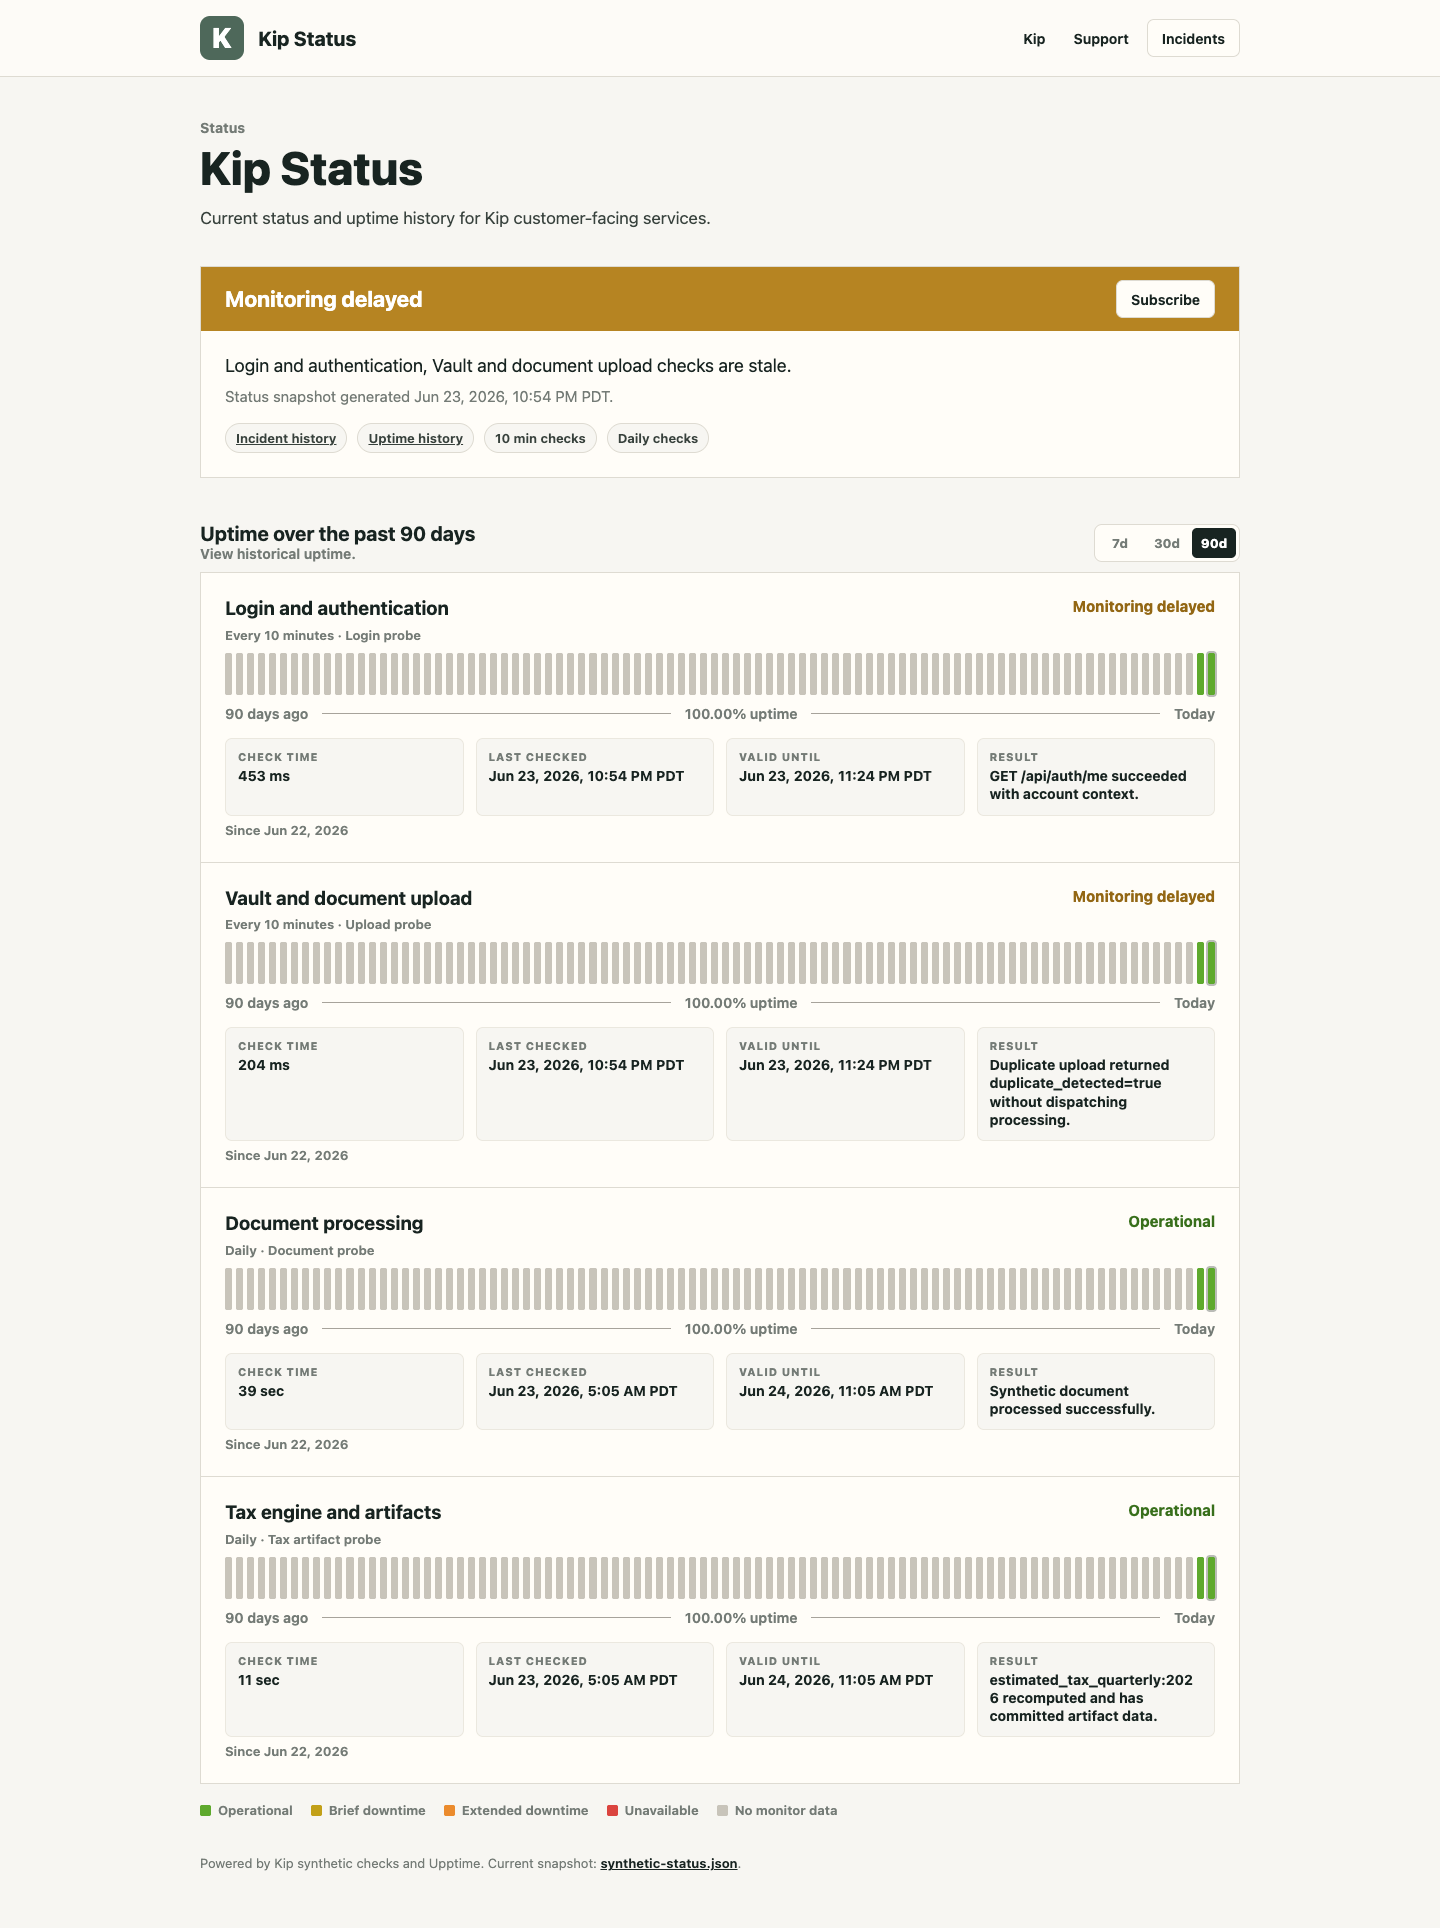
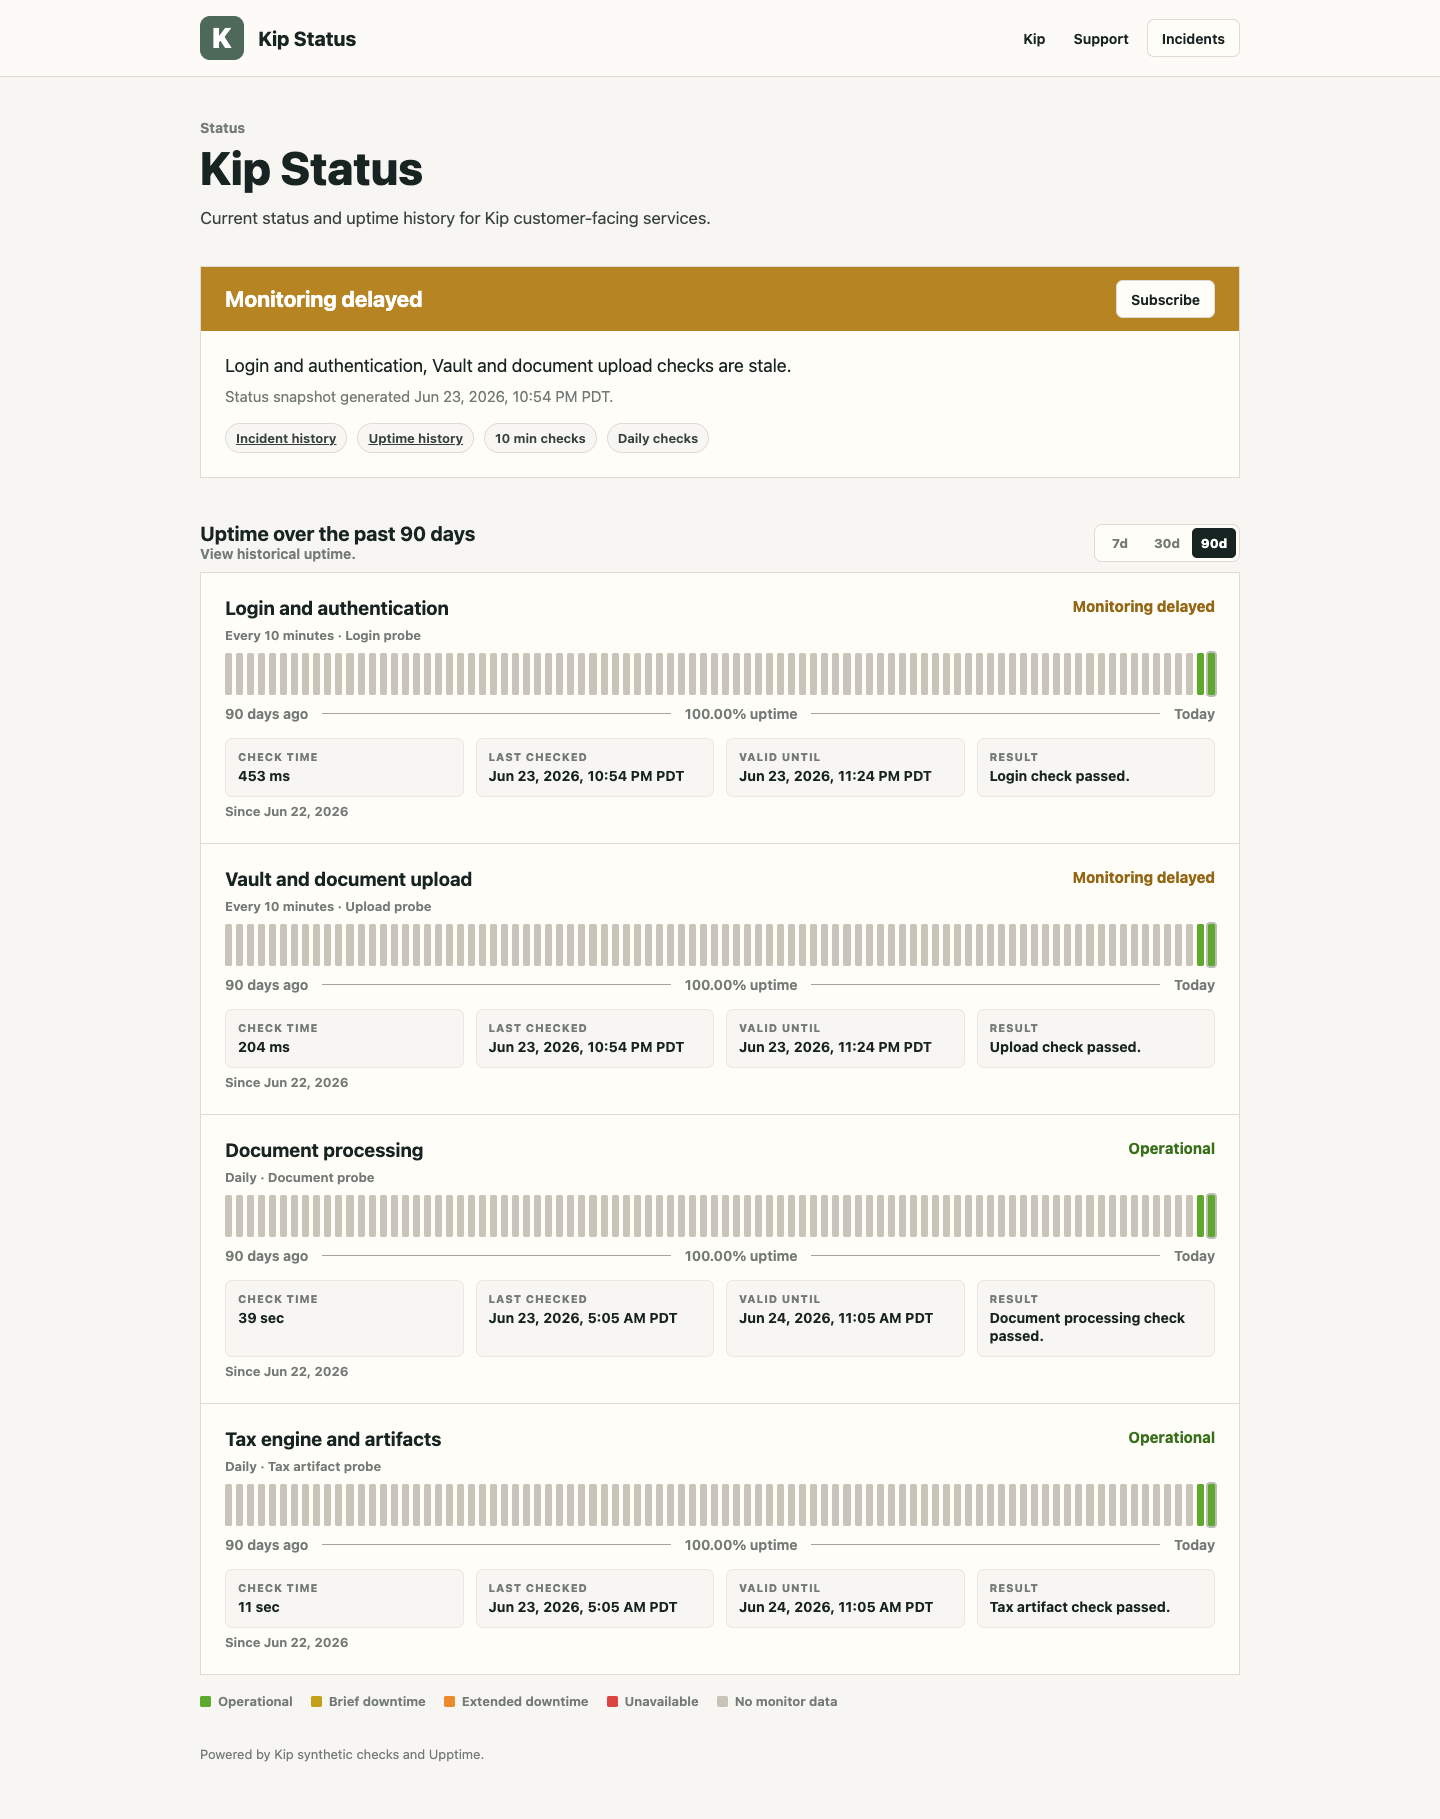
Address status page review comments

diff --git a/tests/kip-status.test.js b/tests/kip-status.test.js
@@ -1,0 +1,77 @@
+const assert = require("node:assert/strict");
+const fs = require("node:fs");
+const path = require("node:path");
+const vm = require("node:vm");
+
+const source = fs.readFileSync(path.join(__dirname, "../assets/kip-status.js"), "utf8");
+const sandbox = {
+  console,
+  document: { getElementById: () => null },
+  Intl,
+  window: {
+    __KIP_STATUS_TEST__: true,
+    location: { hostname: "localhost" },
+  },
+};
+
+vm.createContext(sandbox);
+vm.runInContext(source, sandbox);
+
+const {
+  barState,
+  buildBars,
+  resultForRow,
+  stateForComponent,
+} = sandbox.window.__kipStatusTestUtils;
+
+const now = new Date("2026-06-24T00:00:00.000Z");
+
+assert.equal(stateForComponent(null, now), "down");
+assert.equal(stateForComponent({ status: "down" }, now), "down");
+assert.equal(stateForComponent({ status: "ok", expires_at: "2026-06-24T00:00:00.000Z" }, now), "warn");
+assert.equal(stateForComponent({ status: "ok", expires_at: "2026-06-24T00:00:01.000Z" }, now), "ok");
+
+assert.equal(barState(0, true), "none");
+assert.equal(barState(0, false), "good");
+assert.equal(barState(1, false), "partial");
+assert.equal(barState(59, false), "partial");
+assert.equal(barState(60, false), "degraded");
+assert.equal(barState(1439, false), "degraded");
+assert.equal(barState(1440, false), "down");
+
+const bars = buildBars(
+  {
+    startTime: "2026-06-23T02:40:00.000Z",
+    summary: {
+      dailyMinutesDown: {
+        "2026-06-23": 60,
+        "2026-06-24": 1440,
+      },
+    },
+  },
+  3,
+  new Date("2026-06-24T12:00:00.000Z"),
+);
+
+assert.equal(
+  JSON.stringify(bars.map((bar) => [bar.dateKey, bar.state, bar.today])),
+  JSON.stringify([
+    ["2026-06-22", "none", false],
+    ["2026-06-23", "degraded", false],
+    ["2026-06-24", "down", true],
+  ]),
+);
+
+assert.equal(
+  resultForRow({
+    id: "tax_engine_artifacts",
+    state: "ok",
+    snapshot: {
+      summary: "internal runner summary should not render",
+    },
+  }),
+  "Tax artifact check passed.",
+);
+assert.equal(resultForRow({ id: "login_authentication", state: "down" }), "Check failed.");
+
+console.log("kip-status tests passed");

diff --git a/assets/kip-status.js b/assets/kip-status.js
@@ -5,6 +5,11 @@
   const RAW_BASE = `https://raw.githubusercontent.com/${STATUS_REPO}/main`;
   const API_BASE = `https://api.github.com/repos/${STATUS_REPO}`;
   const LOCAL_HOSTS = new Set(["localhost", "127.0.0.1", "0.0.0.0", ""]);
+  const NAV_LINKS = [
+    { label: "Kip", href: "https://app.kip-ai.com", kind: "link" },
+    { label: "Support", href: "mailto:[email redacted]", kind: "link" },
+    { label: "Incidents", href: "https://github.com/kipfinance/kip-status/issues", kind: "button" },
+  ];
 
   const components = [
     {
@@ -56,26 +61,23 @@
     return `${RAW_BASE}/history/${slug}.yml`;
   }
 
-  async function fetchJson(url, fallback) {
+  async function fetchWithFallback(url, parse, fallback) {
     try {
       const response = await fetch(url, { cache: "no-store" });
       if (!response.ok) throw new Error(`${url} returned ${response.status}`);
-      return await response.json();
+      return await parse(response);
     } catch (error) {
       console.warn(error);
       return fallback;
     }
   }
 
-  async function fetchText(url, fallback) {
-    try {
-      const response = await fetch(url, { cache: "no-store" });
-      if (!response.ok) throw new Error(`${url} returned ${response.status}`);
-      return await response.text();
-    } catch (error) {
-      console.warn(error);
-      return fallback;
-    }
+  function fetchJson(url, fallback) {
+    return fetchWithFallback(url, (response) => response.json(), fallback);
+  }
+
+  function fetchText(url, fallback) {
+    return fetchWithFallback(url, (response) => response.text(), fallback);
   }
 
   function parseYamlLine(text, key) {
@@ -166,8 +168,8 @@
     return "partial";
   }
 
-  function buildBars(componentModel, days) {
-    const today = startOfUtcDay(new Date());
+  function buildBars(componentModel, days, todayDate = new Date()) {
+    const today = startOfUtcDay(todayDate);
     const firstDay = addDays(today, -(days - 1));
     const startTime = componentModel.startTime ? Date.parse(componentModel.startTime) : null;
     const startDay = Number.isFinite(startTime) ? startOfUtcDay(new Date(startTime)) : null;
@@ -200,6 +202,15 @@
 
   function incidentUrl(issue) {
     return issue?.html_url || "https://github.com/kipfinance/kip-status/issues";
+  }
+
+  function resultForRow(row) {
+    if (row.state === "down") return "Check failed.";
+    if (row.id === "login_authentication") return "Login check passed.";
+    if (row.id === "vault_document_upload") return "Upload check passed.";
+    if (row.id === "document_processing") return "Document processing check passed.";
+    if (row.id === "tax_engine_artifacts") return "Tax artifact check passed.";
+    return "Check passed.";
   }
 
   async function loadModel() {
@@ -311,7 +322,7 @@
     const duration = formatDuration(snapshot.duration_ms);
     const checkedAt = formatDateTime(snapshot.checked_at || row.lastUpdated);
     const expiresAt = snapshot.expires_at ? formatDateTime(snapshot.expires_at) : "No freshness window";
-    const summary = snapshot.summary || row.scope;
+    const summary = resultForRow(row);
     const subtitle = [row.cadence, row.scope].filter(Boolean).join(" · ");
 
     return `
@@ -365,9 +376,9 @@
             <span>Kip Status</span>
           </a>
           <nav class="ks-actions" aria-label="Status navigation">
-            <a class="ks-link" href="https://app.kip-ai.com">Kip</a>
-            <a class="ks-link" href="mailto:[email redacted]">Support</a>
-            <a class="ks-button" href="https://github.com/kipfinance/kip-status/issues">Incidents</a>
+            ${NAV_LINKS.map((link) => `
+              <a class="${link.kind === "button" ? "ks-button" : "ks-link"}" href="${escapeHtml(link.href)}">${escapeHtml(link.label)}</a>
+            `).join("")}
           </nav>
         </div>
       </header>
@@ -411,8 +422,7 @@
         </div>
       </main>
       <footer class="ks-wrap ks-footer">
-        Powered by Kip synthetic checks and Upptime. Current snapshot:
-        <a href="/synthetic-status.json">synthetic-status.json</a>.
+        Powered by Kip synthetic checks and Upptime.
       </footer>
     `;
   }
@@ -446,11 +456,20 @@
           <div class="ks-mark" aria-hidden="true">K</div>
           <div>
             <strong>Status page could not load</strong>
-            <span>Open <a href="/synthetic-status.json">synthetic-status.json</a> or contact [email redacted].</span>
+            <span>Contact [email redacted].</span>
           </div>
         </div>
       `;
     }
+  }
+
+  if (typeof window !== "undefined" && window.__KIP_STATUS_TEST__) {
+    window.__kipStatusTestUtils = {
+      barState,
+      buildBars,
+      resultForRow,
+      stateForComponent,
+    };
   }
 
   boot();